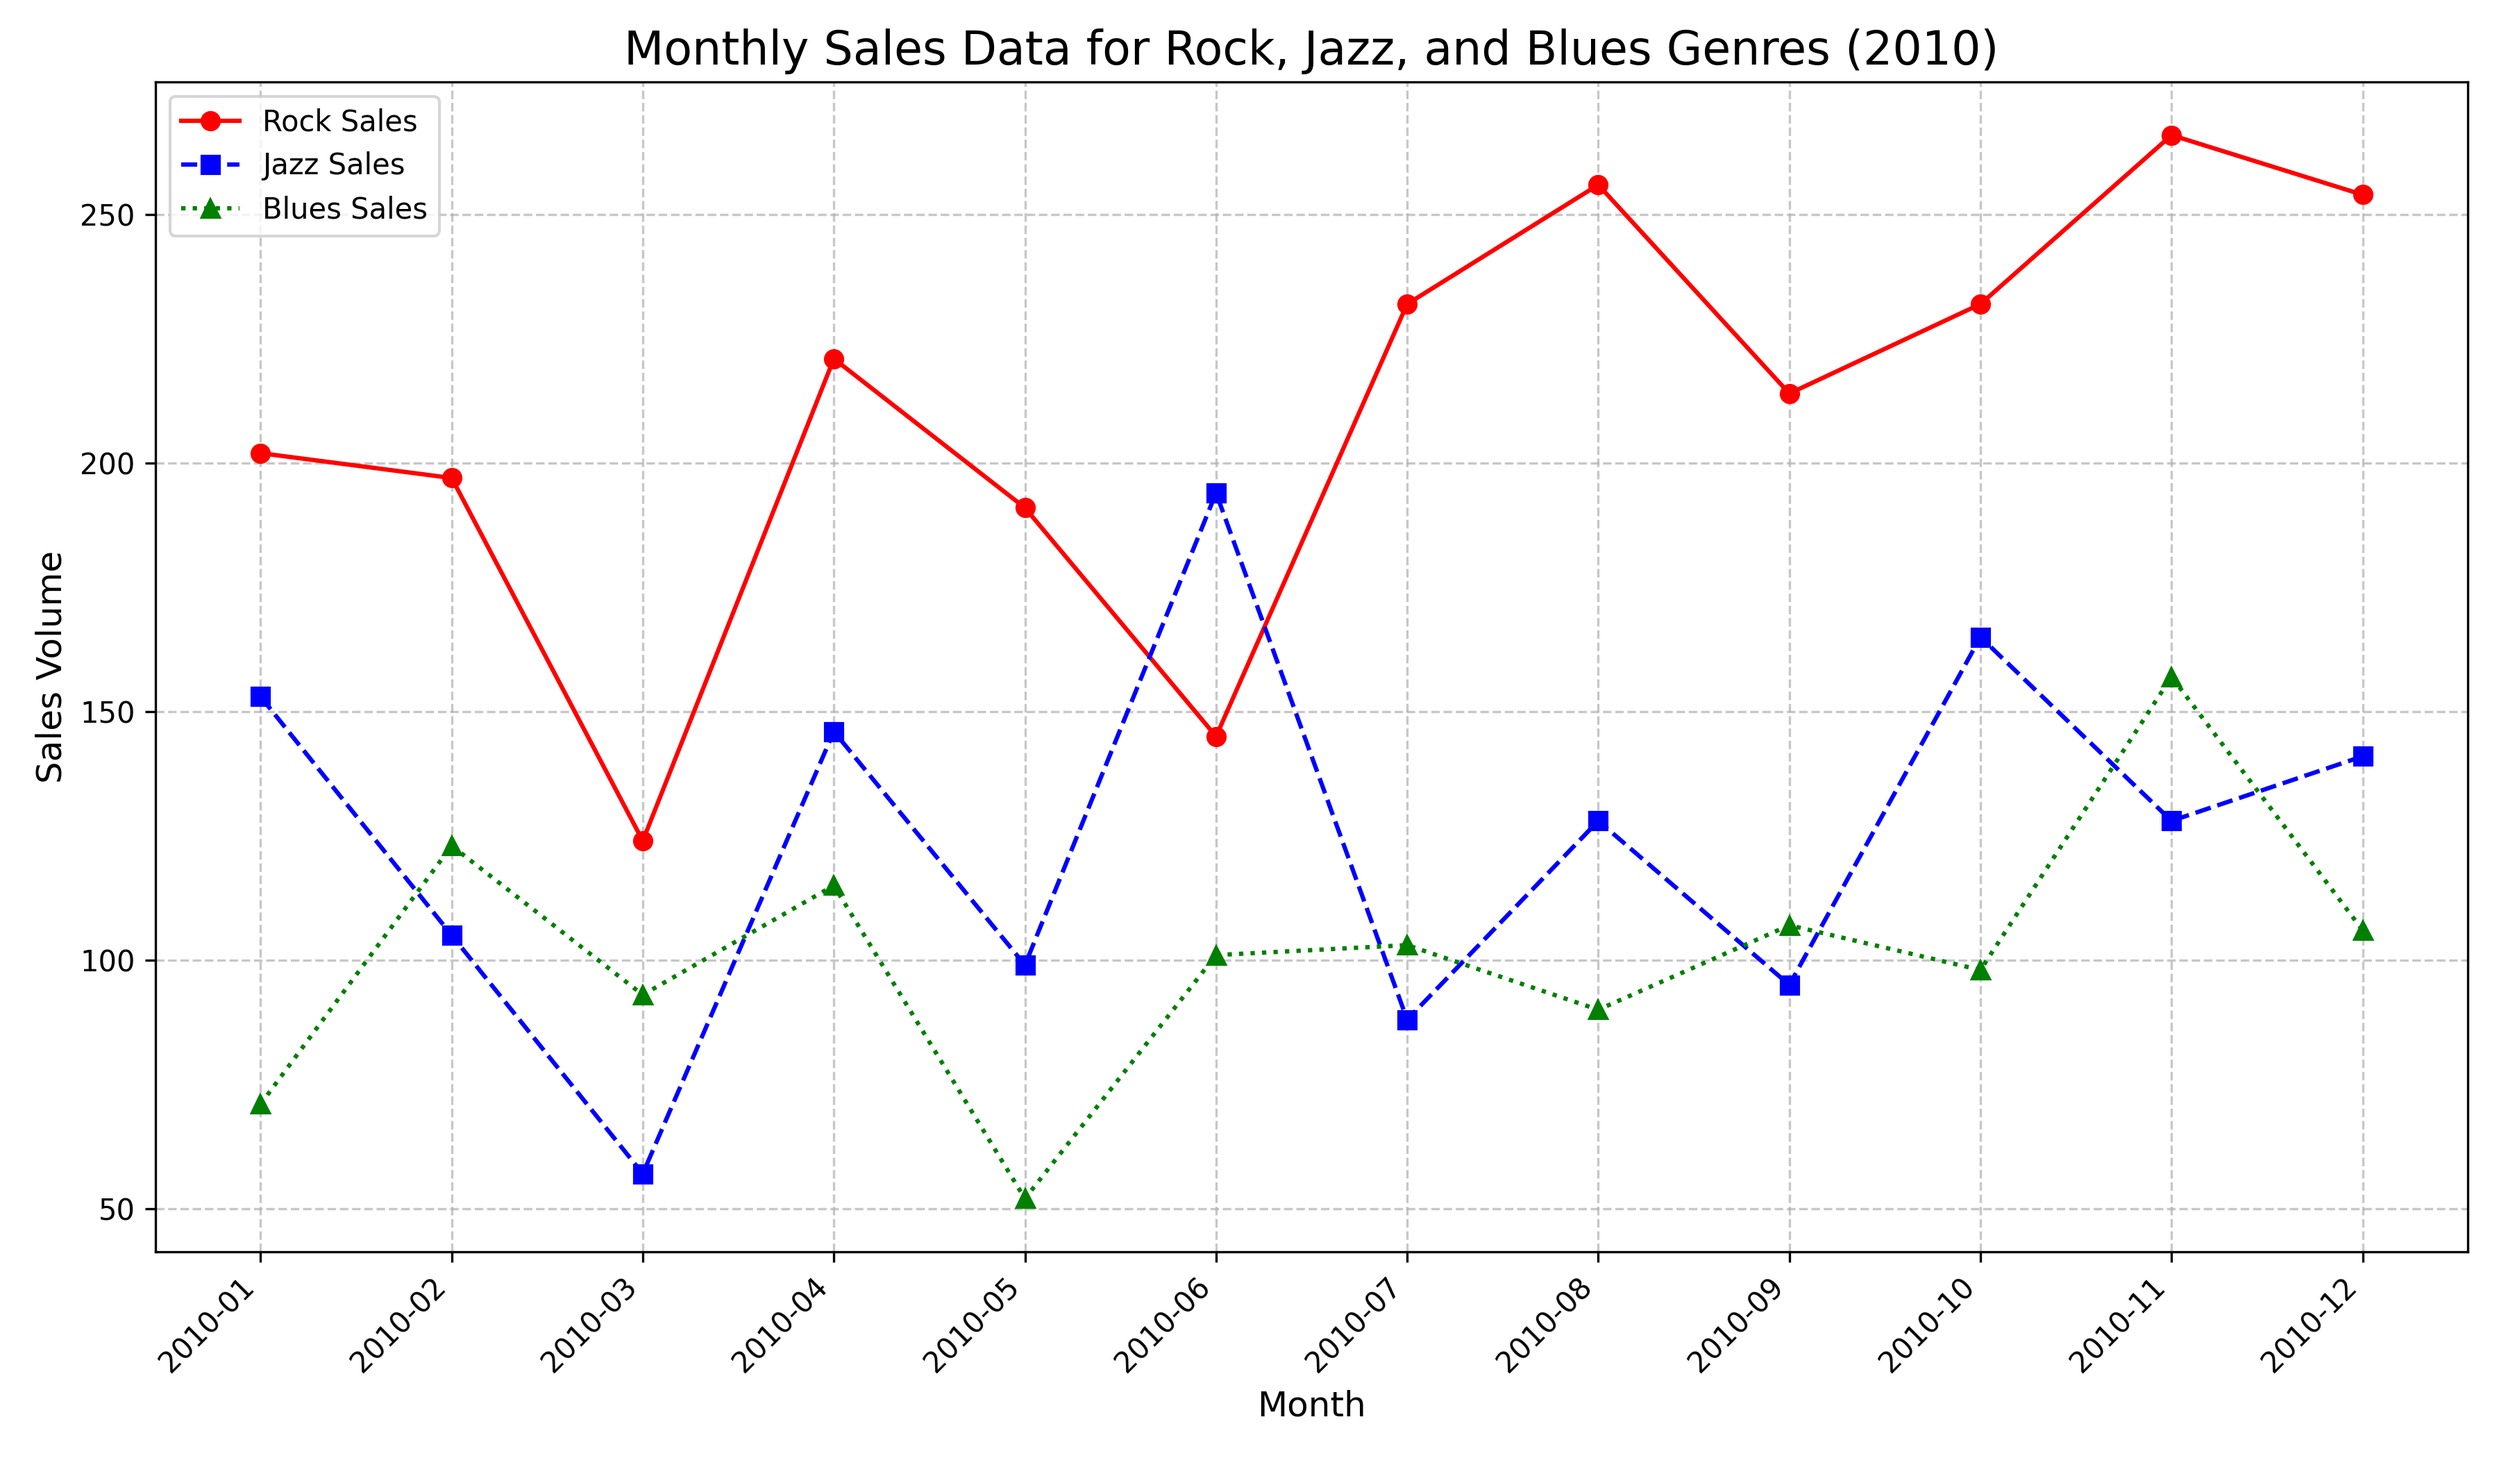
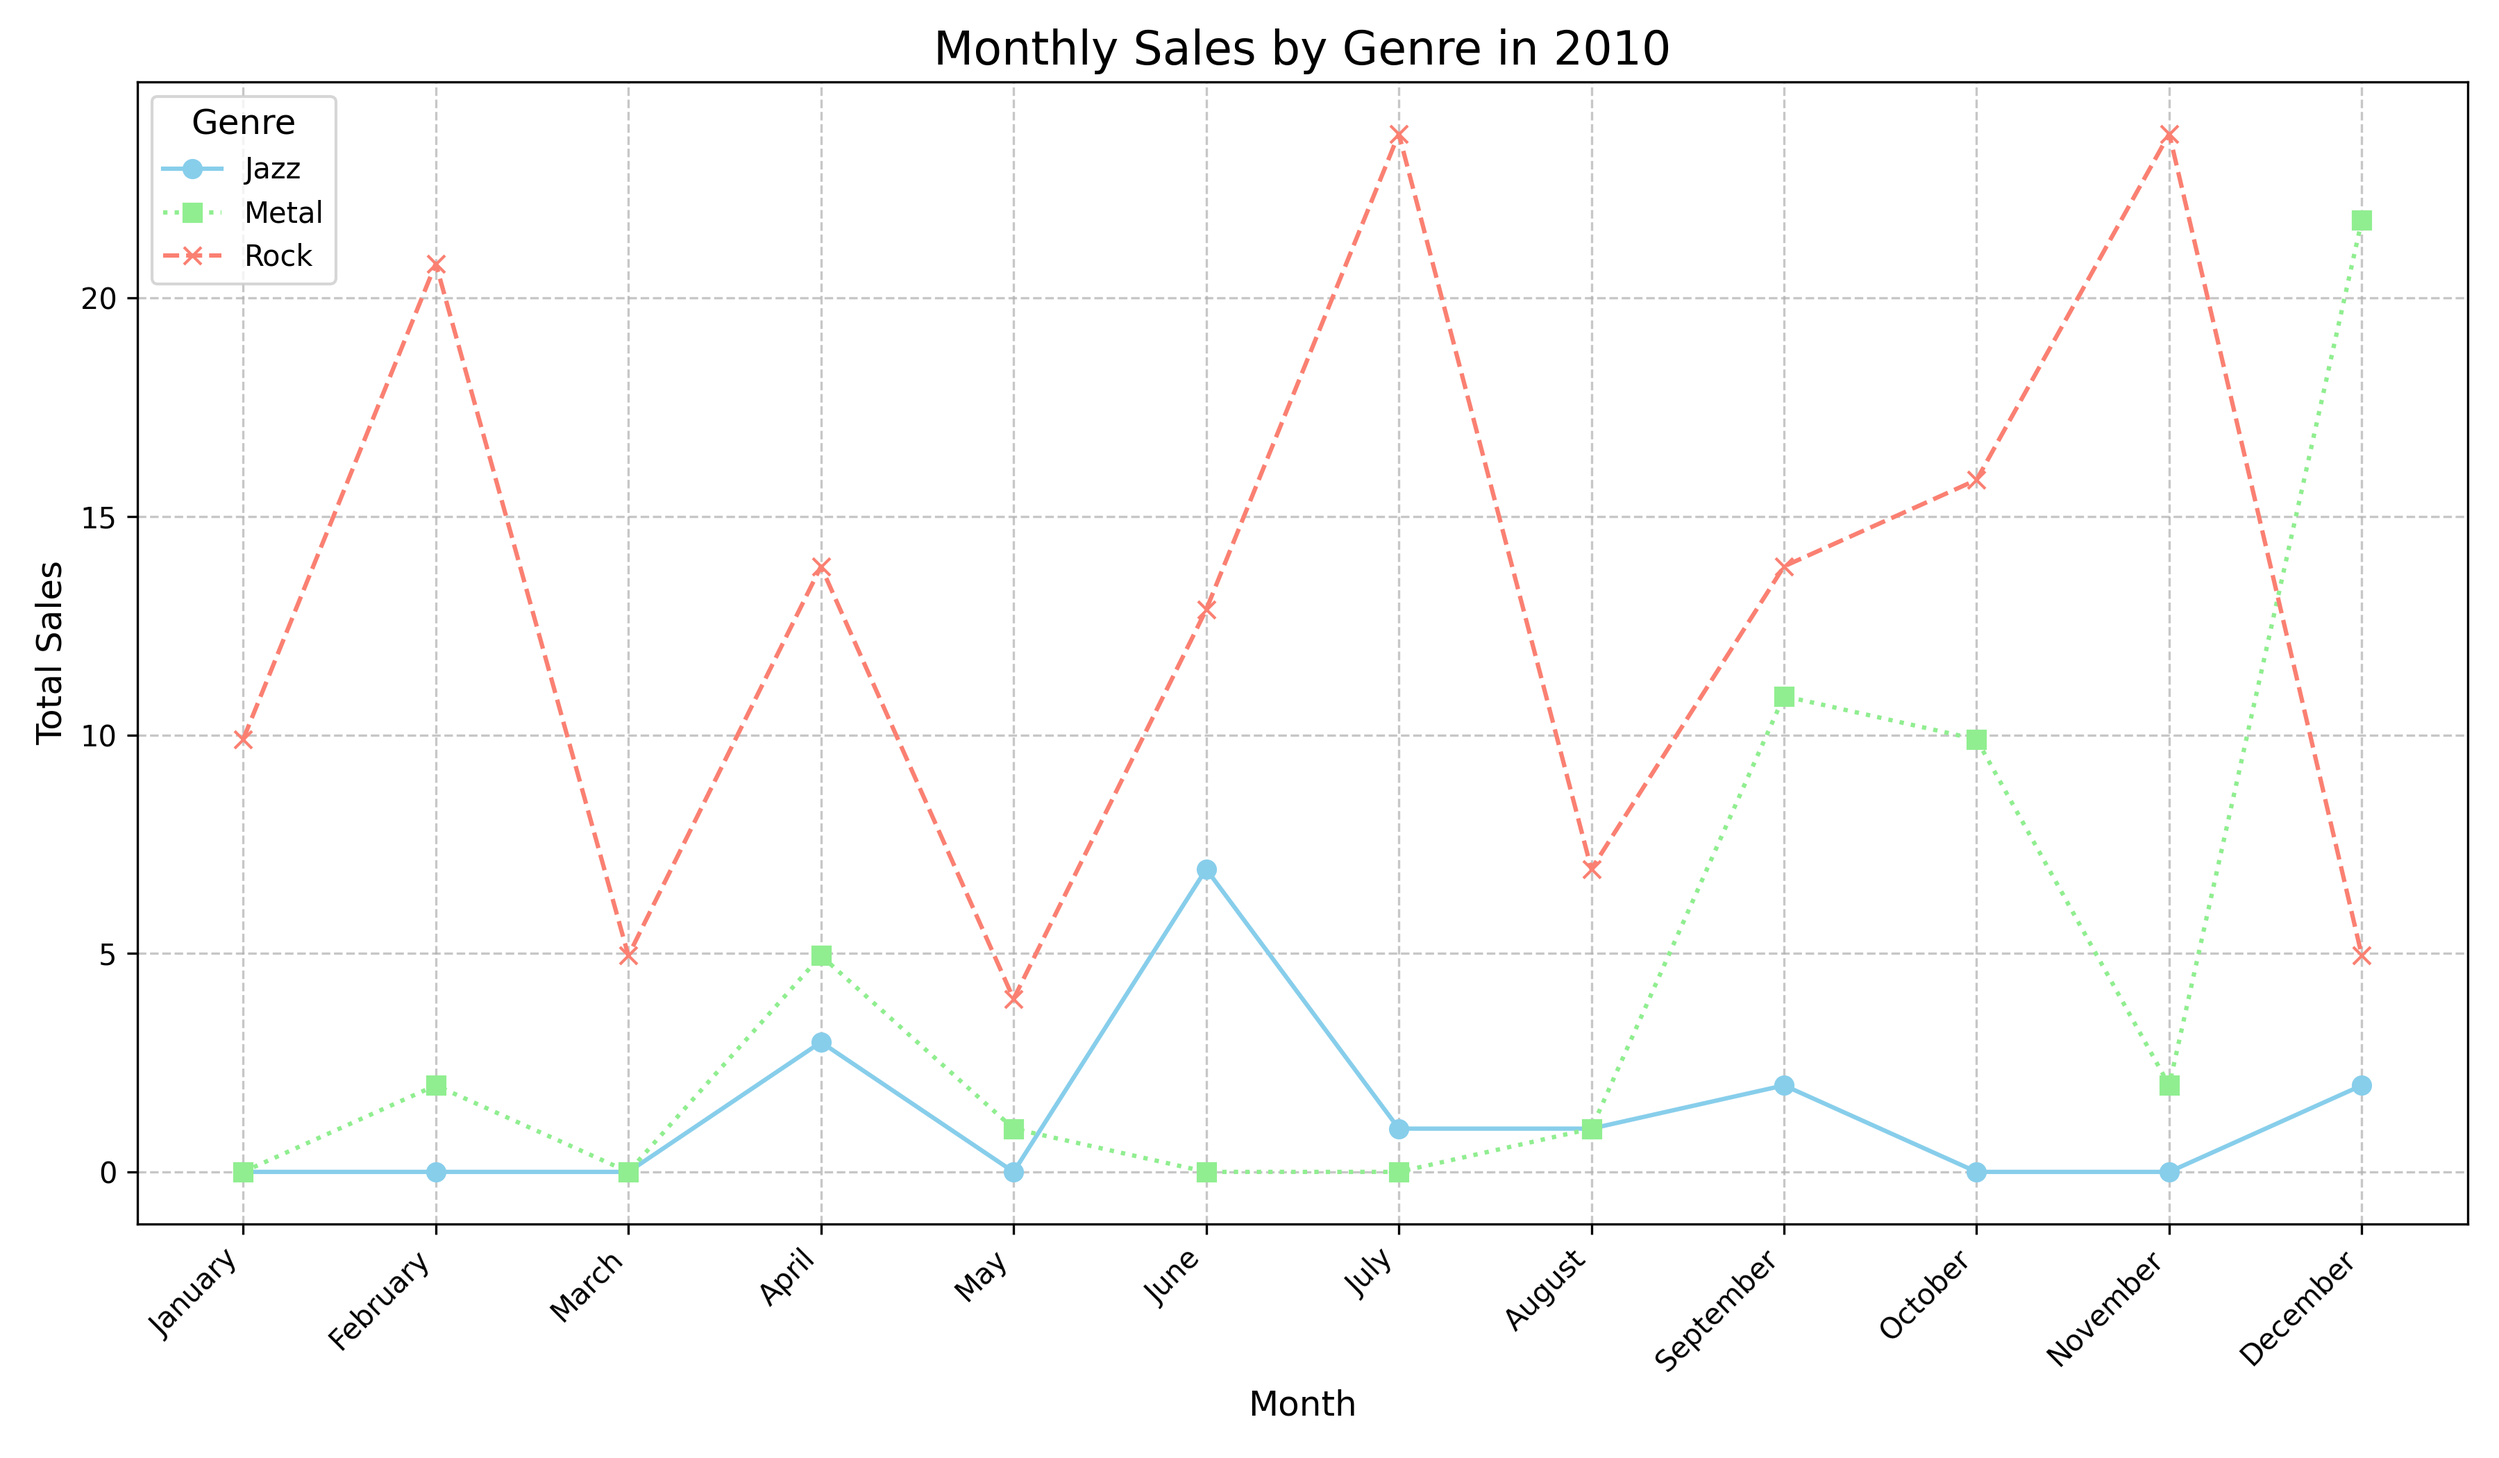
Modify : super agent answer is not present,  save only state, and conversaction agent add

diff --git a/streamlit/01_practice/main.py b/streamlit/01_practice/main.py
@@ -157,60 +157,63 @@ def stream_handler(streamlit_container, agent_executor, inputs, config):
 
     container = streamlit_container.container()
     with container:
-        for chunk_msg, metadata in agent_executor.stream(
-            inputs,
-            config,
-            stream_mode="messages",
-            subgraphs=True,
-        ):
-            # print(f" chunk_msg : \n{chunk_msg}\n")
-            # print(f" metadata : \n{metadata}\n")
-            ## summary 랑 result 제외
-            try:
-                if chunk_msg != ():
+        with st.spinner("응답 생성 중..."):
+            for chunk_msg, metadata in agent_executor.stream(
+                inputs,
+                config,
+                stream_mode="messages",
+                subgraphs=True,
+            ):
+                # print(f" chunk_msg : \n{chunk_msg}\n")
+                # print(f" metadata : \n{metadata}\n")
+                ## summary 랑 result 제외
+                try:
+                    if chunk_msg != () and "supervisor" not in chunk_msg[0]:
 
-                    _metadata = metadata[0]
-                    if hasattr(_metadata, "tool_calls") and _metadata.tool_calls:
-                        # Initialize tool call result
-                        tool_arg = {
-                            "tool_name": "",
-                            "tool_result": "",
-                            "tool_call_id": _metadata.tool_calls[0]["id"],
-                        }
-                        # Save tool name
-                        tool_arg["tool_name"] = _metadata.tool_calls[0]["name"]
-                        if tool_arg["tool_name"]:
-                            tool_args.append(tool_arg)
+                        _metadata = metadata[0]
+                        if hasattr(_metadata, "tool_calls") and _metadata.tool_calls:
+                            # Initialize tool call result
+                            tool_arg = {
+                                "tool_name": "",
+                                "tool_result": "",
+                                "tool_call_id": _metadata.tool_calls[0]["id"],
+                            }
+                            # Save tool name
+                            tool_arg["tool_name"] = _metadata.tool_calls[0]["name"]
+                            if tool_arg["tool_name"]:
+                                tool_args.append(tool_arg)
 
-                    if isinstance(_metadata, ToolMessage):
-                        # Save tool execution results
-                        current_tool_message = get_current_tool_message(
-                            tool_args, _metadata.tool_call_id
-                        )
-                        if current_tool_message:
-                            current_tool_message["tool_result"] = _metadata.content
-                            with st.status(f'✅ {current_tool_message["tool_name"]}'):
-                                if (
-                                    current_tool_message["tool_name"]
-                                    == "run_python_repl"
+                        if isinstance(_metadata, ToolMessage):
+                            # Save tool execution results
+                            current_tool_message = get_current_tool_message(
+                                tool_args, _metadata.tool_call_id
+                            )
+                            if current_tool_message:
+                                current_tool_message["tool_result"] = _metadata.content
+                                with st.status(
+                                    f'✅ {current_tool_message["tool_name"]}'
                                 ):
-                                    # print(f"metadata : {metadata} \n")
-                                    filename = (
-                                        metadata[0]
-                                        .content.replace("Success: ", "")
-                                        .strip()
-                                    )
-                                    st.image(filename)
-                                st.markdown(current_tool_message["tool_result"])
-                    if metadata[1]["langgraph_node"] == "agent":
-                        if _metadata.content:
-                            if agent_message is None:
-                                agent_message = st.empty()
-                            # Accumulate agent message
-                            agent_answer += _metadata.content
-                            agent_message.markdown(agent_answer)
-            except:
-                return "Error :"
+                                    if (
+                                        current_tool_message["tool_name"]
+                                        == "run_python_repl"
+                                    ):
+                                        # print(f"metadata : {metadata} \n")
+                                        filename = (
+                                            metadata[0]
+                                            .content.replace("Success: ", "")
+                                            .strip()
+                                        )
+                                        st.image(filename)
+                                    st.markdown(current_tool_message["tool_result"])
+                        if metadata[1]["langgraph_node"] == "agent":
+                            if _metadata.content:
+                                if agent_message is None:
+                                    agent_message = st.empty()
+                                # Accumulate agent message
+                                agent_answer += _metadata.content
+                                agent_message.markdown(agent_answer)
+                except:
+                    return "Error :"
         _tool_args = [
             tool_arg for tool_arg in tool_args if tool_arg.get("tool_result") != ""
         ]
